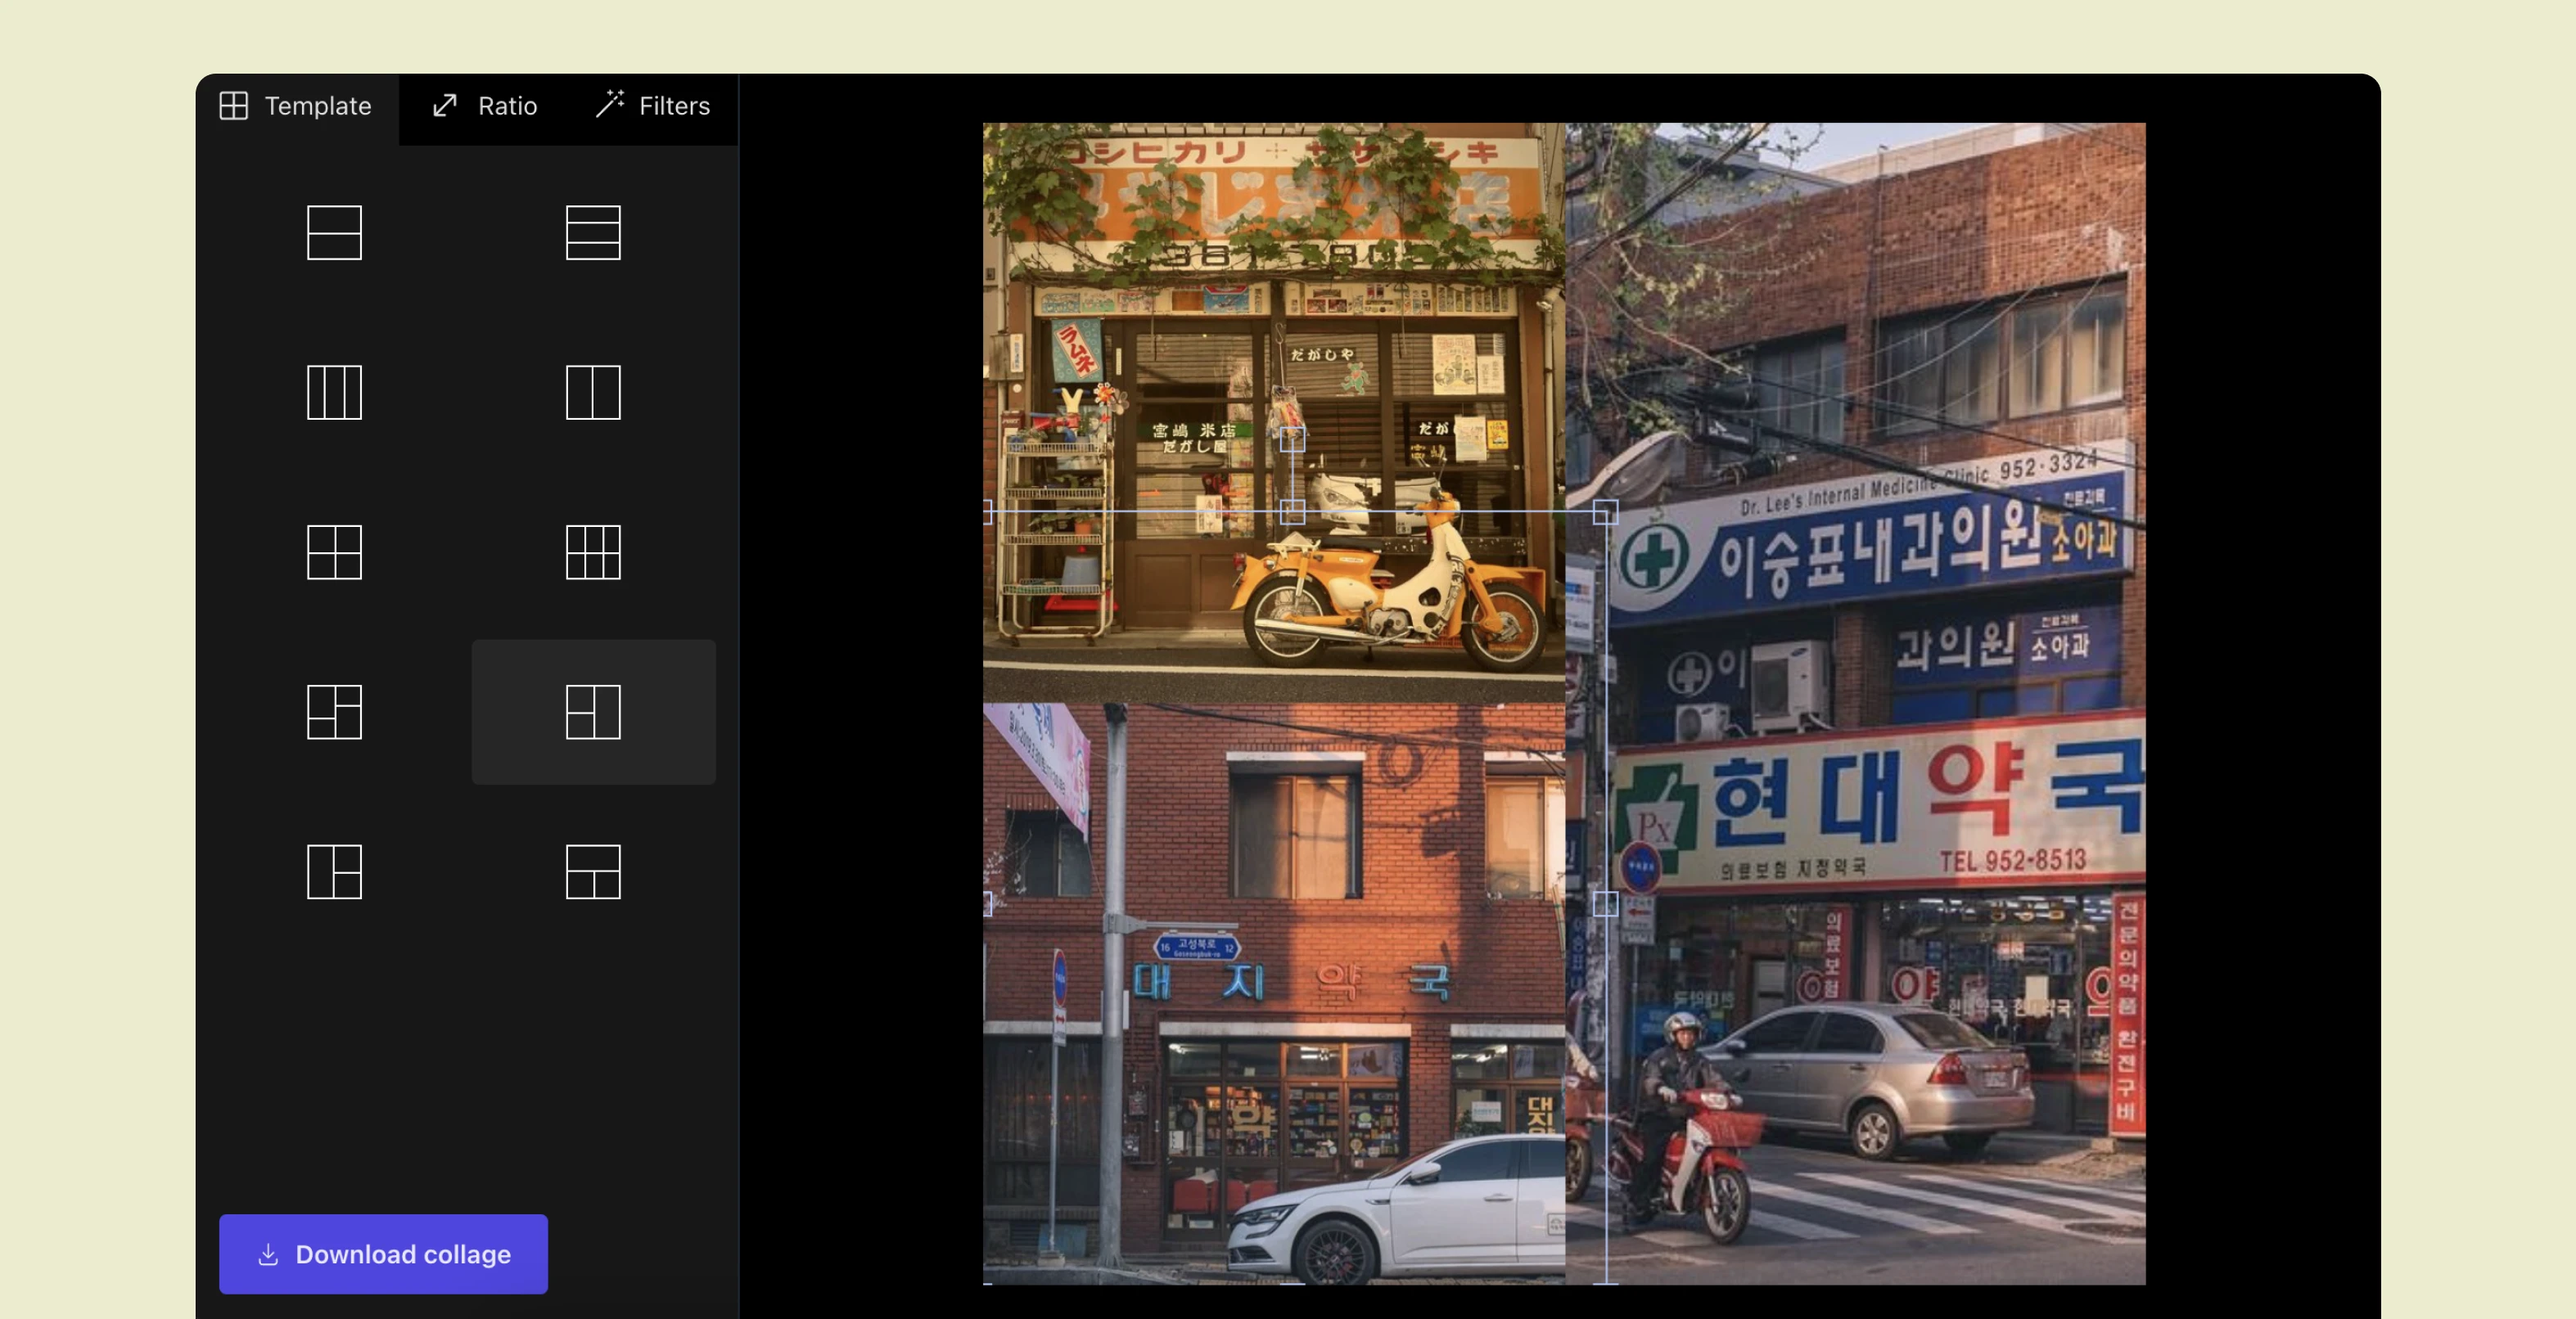
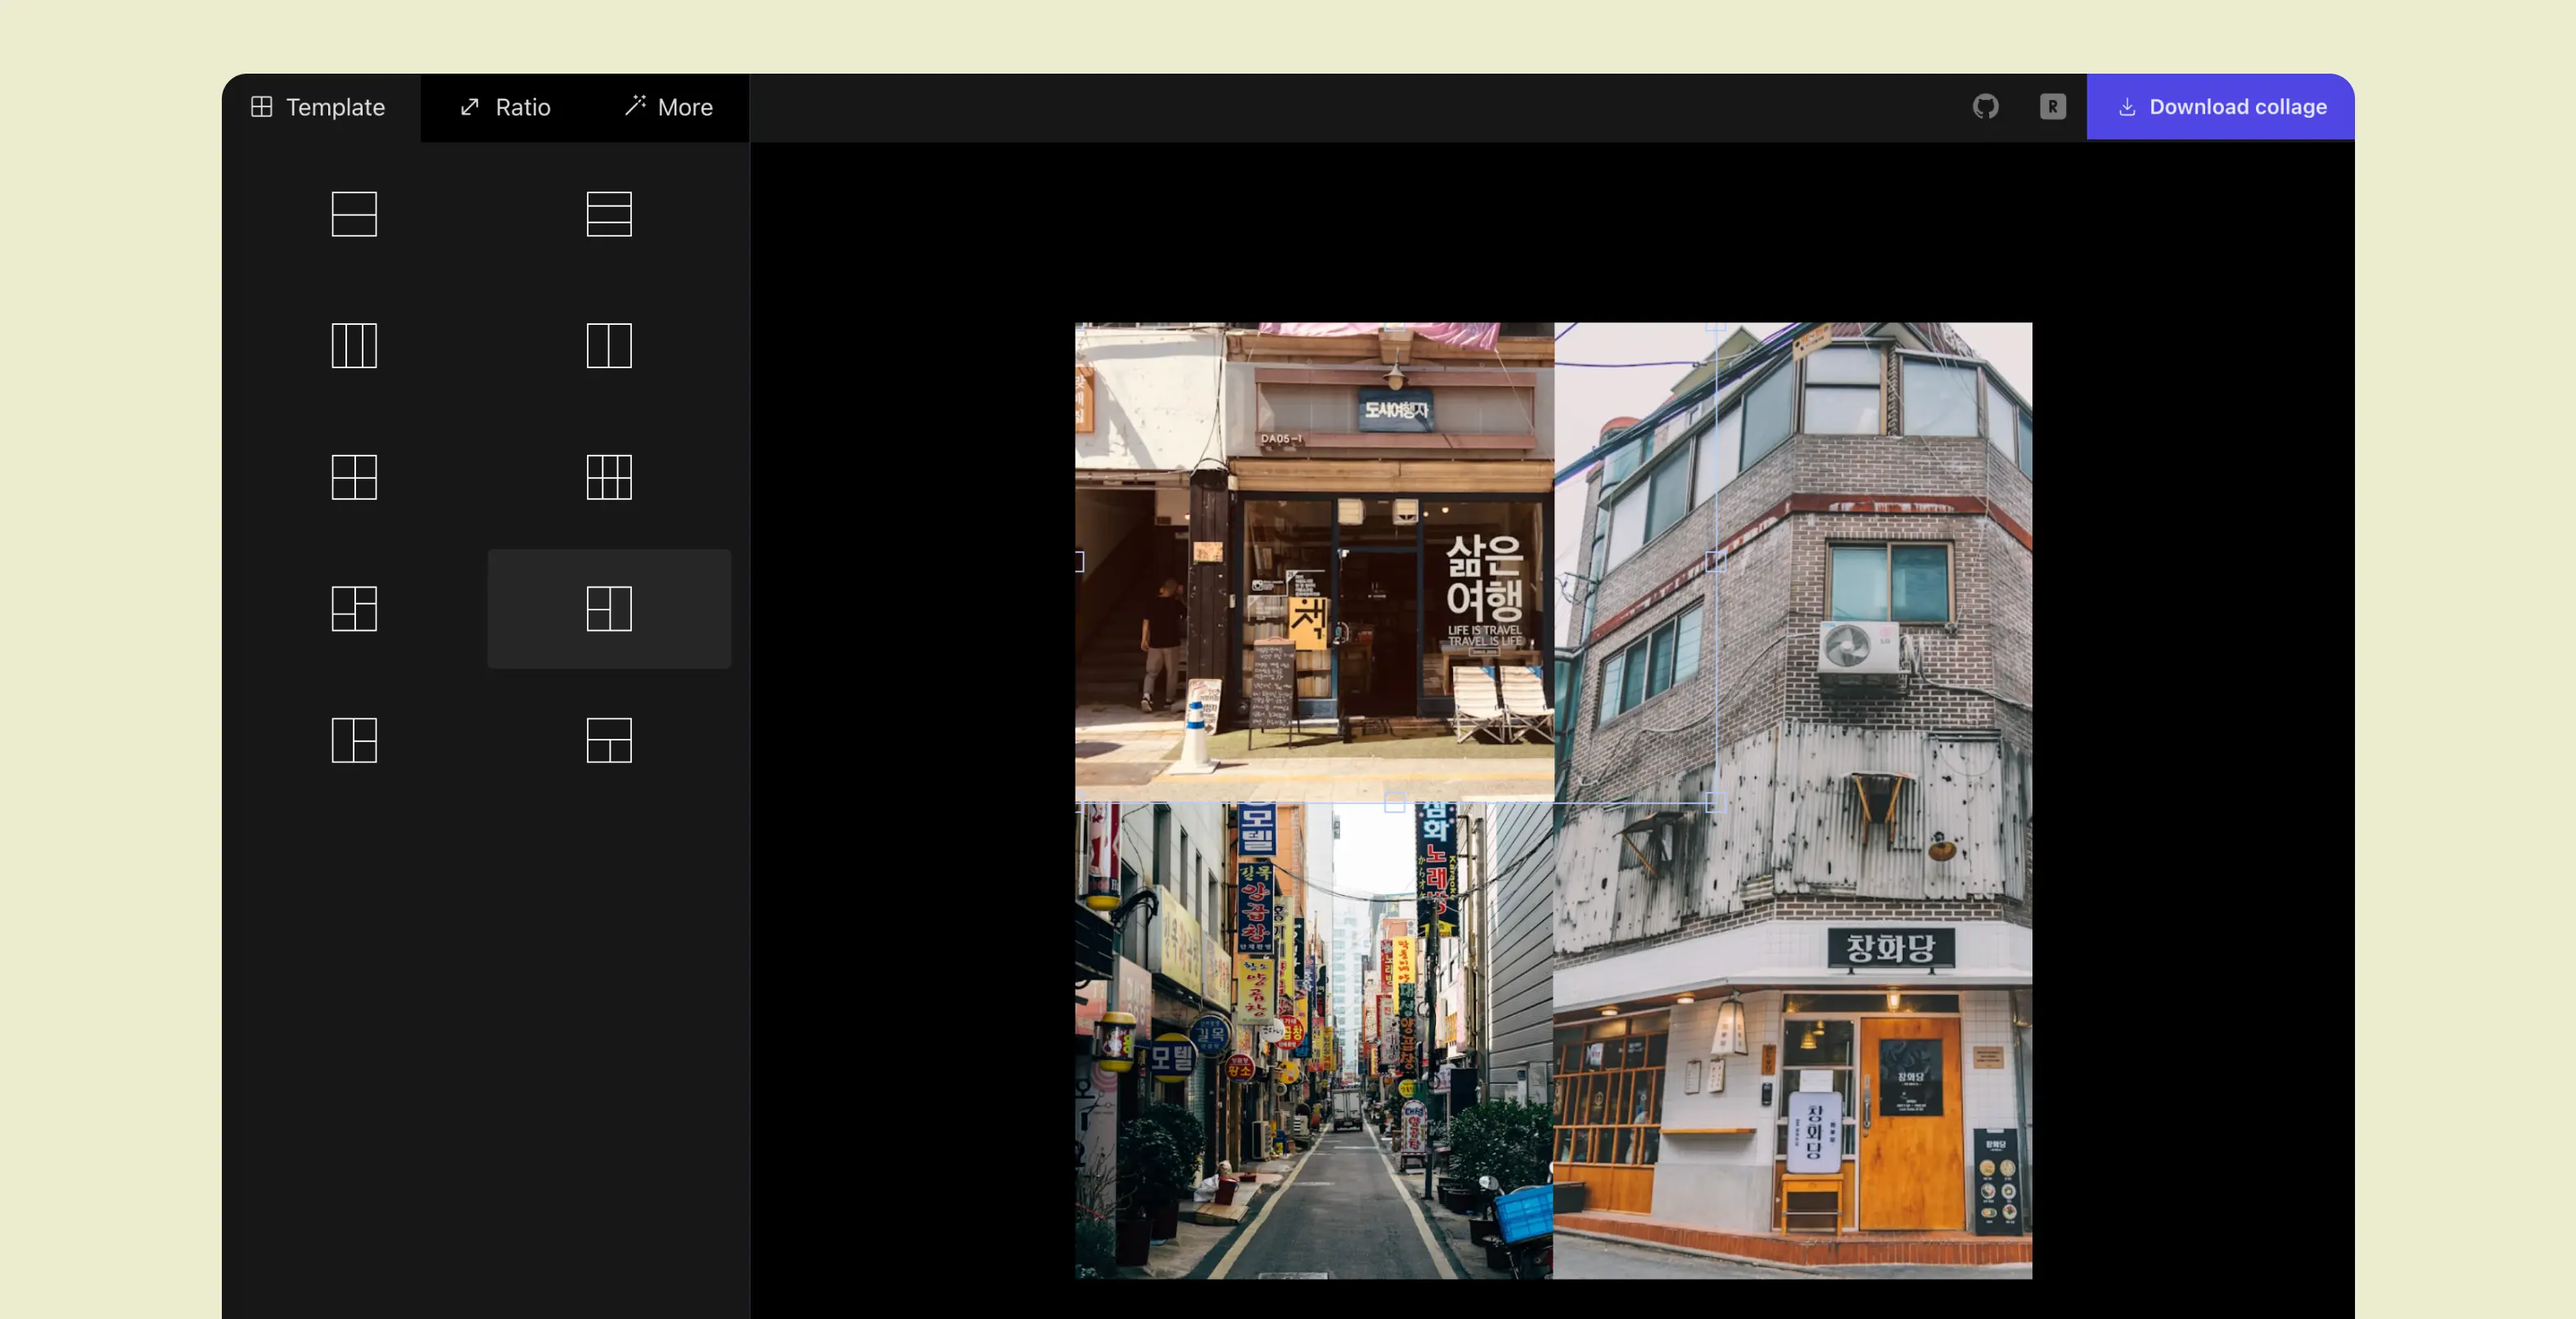
chore: update project info (#25)
* chore: update projects url

* chore: update project info

* feat: hide projects section

* chore: update project info

* chore: update collage maker image

diff --git a/src/constants/personal_projects.ts b/src/constants/personal_projects.ts
@@ -8,14 +8,14 @@ export const personal_projects: ProjectType[] = [
       "text": "Front-end Project",
       "color": "lime"
     },
-    "title": "Collage Canvas",
+    "title": "Collage Maker",
     "description": "Image collage maker with customizable filter options",
     "tools": [
       { "id": "react", "name": "React" },
       { "id": "fabric", "name": "Fabric.js" },
       { "id": "html", "name": "HTML5 Canvas" }
     ],
-    "url": "https://collage-canvas.vercel.app/",
+    "url": "https://collage-maker.ricafolio.dev/",
     "url_text": "View Project",
     "github_url": "https://github.com/ricafolio/react-canvas-collage-maker"
   },
@@ -33,18 +33,18 @@ export const personal_projects: ProjectType[] = [
       { "id": "openaiapi", "name": "OpenAI API" },
       { "id": "googleapi", "name": "Google Places API" }
     ],
-    "url": "https://app.destinasyon.xyz/",
+    "url": "https://destinasyon.ricafolio.dev/",
     "url_text": "View Project",
     "github_url": "https://github.com/ricafolio/destinasyon-app"
   },
   {
     "img_file_name": "orangey",
     "label": {
-      "text": "Extension Project",
+      "text": "VSCode Extension",
       "color": "lime"
     },
     "title": "Orangey",
-    "description": "Warm dark theme for VSCode",
+    "description": "Warm dark theme for VSCode with variations",
     "tools": [
       {
         "id": "vscode",
@@ -62,11 +62,11 @@ export const personal_projects: ProjectType[] = [
   {
     "img_file_name": "horizon",
     "label": {
-      "text": "Extension Project",
+      "text": "VSCode Extension",
       "color": "lime"
     },
     "title": "Horizon Muted",
-    "description": "A modified fork of Horizon Theme for VSCode, featuring a muted color palette",
+    "description": "A modified fork of Horizon Theme, featuring a muted color palette",
     "tools": [
       {
         "id": "vscode",
@@ -114,7 +114,7 @@ export const personal_projects: ProjectType[] = [
       "color": "orange"
     },
     "title": "VENUS",
-    "description": "Responsive landing page with Astro JS",
+    "description": "Responsive landing page made with Astro JS",
     "tools": [
       {
         "id": "astro",
